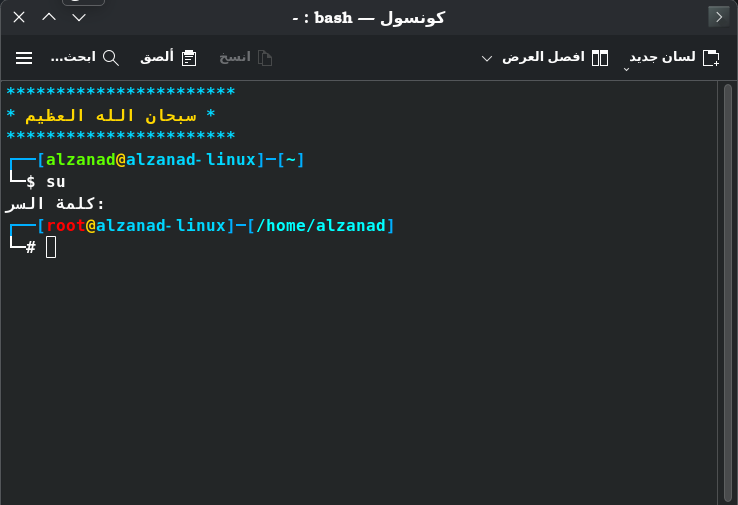
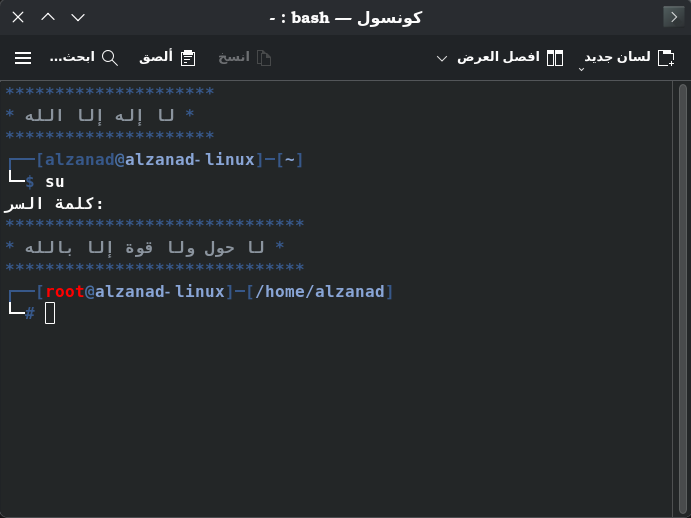
Add files via upload

diff --git a/README.md b/README.md
@@ -1,6 +1,6 @@
 # ملف إعدادات باش متكامل
 
-هذا الملف هو مجموعة شاملة من التحسينات والإضافات لبيئة Bash، مصممة لجعل تجربتك على سطر الأوامر أكثر إنتاجية، أمانًا، وجمالًا. 
+هذا الملف هو مجموعة شاملة من التحسينات والإضافات لبيئة "باش"، مصممة لجعل تجربتك على الطرفية أكثر إنتاجية، أمانًا، وجمالًا. 
 
 ![طرفية لينكس](img.png)
 
@@ -8,7 +8,7 @@
 
 ### 1. موجه أوامر احترافي ومخصص
 
-تم تصميم الطرفية كطرفية توزيعة كالي لنيكس.
+تم تصميم الطرفية كطرفية توزيعة كالي لينكس.
 - **ألوان مميزة:**
     - تمييز المستخدم الجذر (`root`) باللون الأحمر لتحذيرك.
     - ألوان مختلفة لاسم المستخدم، اسم الجهاز، والمسار الحالي.
@@ -19,8 +19,8 @@
 ### 2. إدارة الأوامر المفضلة مع دالة `fav`
 
 أداة قوية لحفظ وإدارة الأوامر التي تستخدمها بشكل متكرر.
+- `fav`: لعرض جميع الأوامر المحفوظة مع أرقامها.
 - `fav add <command>`: لإضافة أمر جديد إلى قائمتك المفضلة.
-- `fav list`: لعرض جميع الأوامر المحفوظة مع أرقامها.
 - `fav del <number>`: لحذف أمر من القائمة باستخدام رقمه.
 - `fav <number>`: لتشغيل أمر مباشرة من القائمة.
 
@@ -46,29 +46,22 @@
 
 ### 6. تحسينات الأمان والصلابة
 
-- `set -u`: يجعل السكربت يتوقف عند محاولة استخدام متغير غير معرّف، مما يمنع الأخطاء غير المتوقعة.
 - `umask 027`: يضبط الأذونات الافتراضية للملفات الجديدة لتكون أكثر أمانًا (لا أذونات للآخرين `others`).
 - `set -o noclobber`: يمنع إعادة الكتابة فوق ملف موجود عن طريق الخطأ باستخدام عامل التوجيه `>`.
 
-### 7. أسماء مستعارة (Aliases) مفيدة
-
-- `ls --color=auto`: تلوين مخرجات `ls` تلقائيًا.
-- `ll`, `la`, `l`: اختصارات شائعة لأمر `ls` مع خيارات مختلفة.
-- `alert`: اسم مستعار مبتكر! بعد انتهاء أي أمر، اكتب `alert` لإرسال إشعار إلى سطح المكتب يخبرك بنجاح أو فشل الأمر السابق.
-
-### 8. إدارة سجل الأوامر (History) بذكاء
+### 7. إدارة سجل الأوامر (History) بذكاء
 
 - لا يحفظ الأوامر المكررة أو التي تبدأ بمسافة.
 - يدمج سجل الأوامر من جميع جلسات الطرفية المفتوحة بدلاً من الكتابة فوقه.
 - حجم سجل كبير (1000 أمر في الذاكرة، 2000 في الملف) للاحتفاظ بتاريخ أطول.
 
-### 9. تحسينات سلوك الصدفة (Shell)
+### 8. تحسينات سلوك الصدفة (Shell)
 
 - `autocd`: يمكنك الانتقال إلى مجلد بكتابة اسمه مباشرة دون الحاجة لأمر `cd`.
 - `globstar`: يفعّل النمط `**` للبحث في المجلدات الفرعية بشكل متكرر (مثال: `ls **/*.py`).
 - `checkwinsize`: يحدّث حجم النافذة تلقائيًا بعد كل أمر.
 
-###  المميزات الجديدة
+###  مميزات أخرى
 - بعض توزيعات لينكس بها قيود على تحميل ب pip لذلك تضاف --break-system-packages تلقائيا دون كتابتها.
 - عرض ذكر عشوائي عند فتح الطرفية.
 
